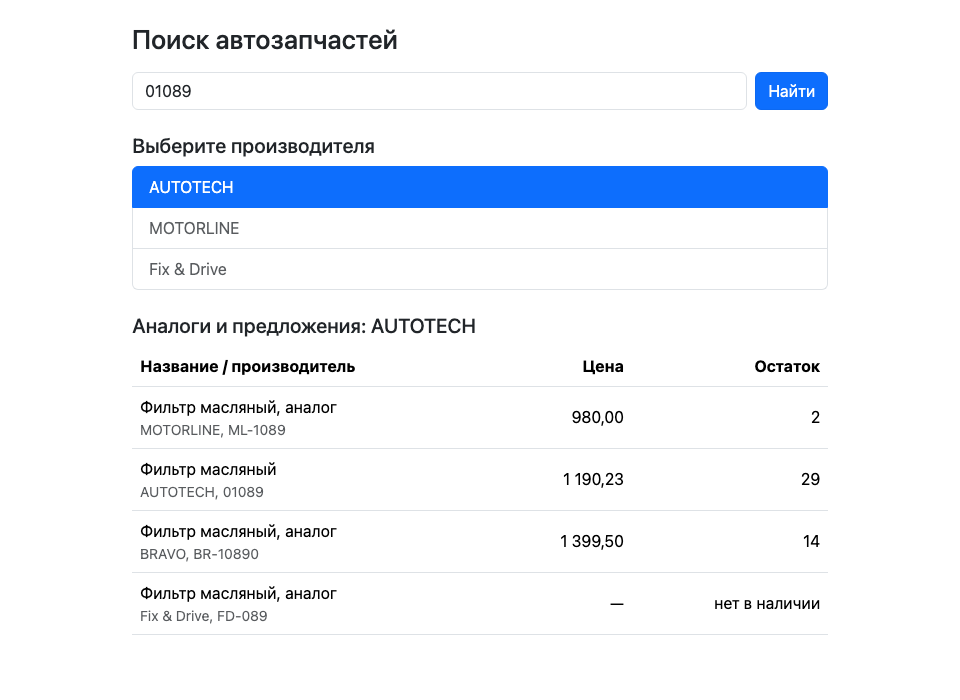
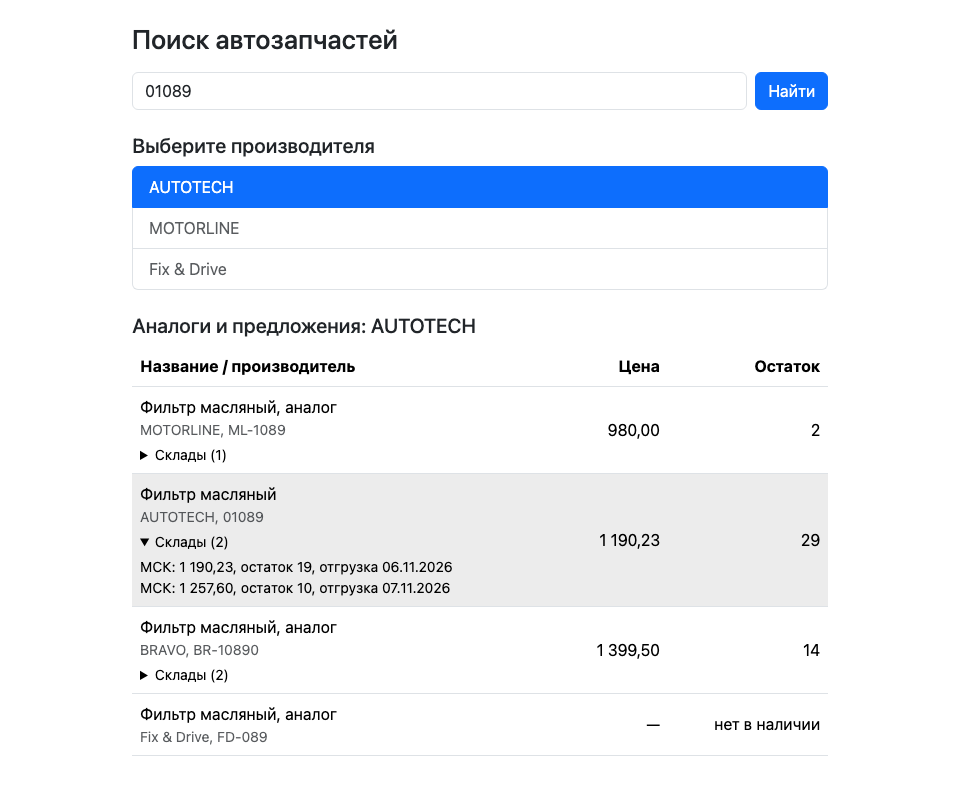
docs: склады в ARCHITECTURE и на скриншоте

diff --git a/ARCHITECTURE.md b/ARCHITECTURE.md
@@ -14,7 +14,7 @@ src/
     BrandList.jsx              список производителей, запускает этап 2
   features/offers/           этап 2
     offersSlice.js             состояние, thunk fetchOffers, селекторы
-    offerRules.js              чистые функции: цена, остаток, порядок строк
+    offerRules.js              чистые функции: цена, остаток, склады, порядок строк
     OffersTable.jsx            загрузка, ошибка, пусто или таблица
   components/Loader.jsx      индикатор загрузки
   store.js                   makeStore() для тестов и store для приложения
@@ -98,7 +98,7 @@ sequenceDiagram
 1. **Два slice.** Два независимых процесса загрузки не помещаются в один `status`. Связь между ними односторонняя: `offers` слушает `fetchBrands.pending` из `search` и сбрасывается, чтобы под новым списком производителей не осталась таблица от старого поиска.
 2. **Номер второго этапа берётся из store.** Текст в поле ввода это локальное состояние формы и может уже отличаться от того, по чему получен список. В store лежит номер, с которым реально искали. Запрос второго этапа идёт по нему, а не по `number` позиции: у некоторых производителей номер записан иначе (например `H01089-00`).
 3. **Слой API не принимает решений о показе.** Позиции без остатка не отбрасываются: интерфейс показывает их как «нет в наличии». Фильтровать нужно только «пустую» позицию, которой сервис отвечает на «ничего не найдено».
-4. **Правила цены и порядка в чистых функциях** (`offerRules.js`), отдельно от Redux и компонентов. Их проверяют обычными тестами «данные на входе, результат на выходе». Цена `null` («неизвестно») отличается от `0`: ноль показал бы «бесплатно» и поставил бы позицию первой в сортировке.
+4. **Правила цены и порядка в чистых функциях** (`offerRules.js`), отдельно от Redux и компонентов. Их проверяют обычными тестами «данные на входе, результат на выходе». Цена `null` («неизвестно») отличается от `0`: ноль показал бы «бесплатно» и поставил бы позицию первой в сортировке. Список складов позиции строится там же (`getWarehouses`): склады с остатком по возрастанию цены; дата отгрузки берётся из строки, а не через `Date`, чтобы часовой пояс не сдвигал день; ключ склада `id`, потому что `code` у складов повторяется.
 5. **Гонка запросов.** Каждый запуск thunk получает свой `requestId`. Slice хранит id последнего запроса и игнорирует ответы с другим id. Так запоздалый ответ прежнего производителя не затирает таблицу нового, а ответ, пришедший после нового поиска, не воскрешает старую таблицу. Сам запрос в сети не отменяется.
 6. **Повторный выбор того же производителя** не перезапрашивает таблицу (`condition` у `fetchOffers`): запрос уже летит или данные уже есть. После ошибки повтор разрешён, иначе ошибка стала бы тупиком.
 7. **Ошибки.** Все сбои (сеть, статус, поле `error`, нечитаемый ответ) превращаются в `ApiError` с русским сообщением. В state попадает только строка сообщения.
